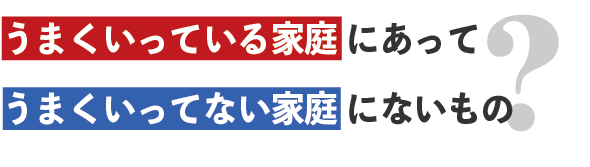
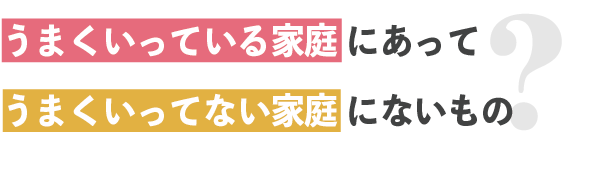
LP

diff --git a/product/案件/育脳子育てカウンセラー/lp/lp02/index.html b/product/案件/育脳子育てカウンセラー/lp/lp02/index.html
@@ -5,7 +5,7 @@
     <meta http-equiv="Content-Type" content="text/html; charset=UTF-8">
     <meta name="viewport" content="width=device-width, initial-scale=1.0">
 
-    <!-- LP_ASSET_VERSION: 20260714 -->
+    <!-- LP_ASSET_VERSION: 20260718j -->
     <meta http-equiv="Cache-Control" content="no-cache, no-store, must-revalidate">
     <meta http-equiv="Pragma" content="no-cache">
     <meta http-equiv="Expires" content="0">
@@ -110,11 +110,11 @@ h1,
 .firstview {
 	width: 100%;
 	max-width: none;
-	aspect-ratio: 1024 / 682;
+	aspect-ratio: 1024 / 683;
 	height: auto;
 	margin: 0 auto;
 	box-shadow: 0 0 5px rgba(0, 0, 0, 0.5);
-	background: url(assets/header-replacement.png?v=20260713b) center center / 100% auto no-repeat;
+	background: url(assets/header-replacement.png?v=20260718a) center center / 100% auto no-repeat;
 	text-indent: -9999px;
 	}
 
@@ -244,34 +244,50 @@ address {
 }
 
 .form-nudge {
-	margin: 0 auto 18px;
-	padding: 0 16px;
-	max-width: 96vw;
+	margin: 0 auto 10px;
+	padding: 0;
+	width: 100%;
+	max-width: 100%;
+	box-sizing: border-box;
 	color: var(--brand-text);
-	font-size: 1.55em;
+	font-size: 1.25em;
 	font-weight: bold;
-	line-height: 1.6;
+	line-height: 1.4;
 	text-align: center;
-	letter-spacing: 0.04em;
+	letter-spacing: 0.01em;
+	overflow: hidden;
 }
 
 .form-nudge span {
-	display: inline;
-	padding-bottom: 0.15em;
+	display: inline-block;
+	max-width: 100%;
+	box-sizing: border-box;
+	white-space: nowrap;
+	padding-bottom: 0.12em;
 	border-bottom: 2px solid rgba(196, 112, 126, 0.55);
 	color: #9b4d5c;
 }
 
 .form-nudge-date {
 	margin: 0 auto 22px;
-	padding: 0 16px;
-	max-width: 96vw;
+	padding: 0;
+	width: 100%;
+	max-width: 100%;
+	box-sizing: border-box;
 	color: #9b4d5c;
-	font-size: 1.45em;
+	font-size: 1.25em;
 	font-weight: bold;
-	line-height: 1.5;
+	line-height: 1.4;
 	text-align: center;
-	letter-spacing: 0.06em;
+	letter-spacing: 0.01em;
+}
+
+@media screen and (max-width: 599px) {
+	.form-nudge,
+	.form-nudge-date {
+		font-size: 16px;
+		letter-spacing: 0;
+	}
 }
 
 
@@ -455,6 +471,23 @@ button[type=submit] img:hover,
 	max-width: 96vw;
 	height: auto;
 	margin: 0 auto;
+}
+
+.who-feelings {
+	padding: 2.5em 0;
+	width: 100%;
+	background: #ffffff;
+}
+.wrap_who_feelings {
+	margin: 0 auto;
+	max-width: 1000px;
+}
+.img_who_feelings {
+	display: block;
+	margin: 0 auto;
+	width: 900px;
+	max-width: 96vw;
+	height: auto;
 }
 
 
@@ -699,6 +732,15 @@ button[type=submit] img:hover,
 	letter-spacing: 0.03em;
 }
 
+@media screen and (max-width: 599px) {
+	.cycle-bridge {
+		font-size: 1.05em;
+		line-height: 1.75;
+		letter-spacing: 0.02em;
+		padding: 0 4vw;
+	}
+}
+
 .img_irritation_cycle {
 	margin-top: 0.4em;
 }
@@ -790,6 +832,10 @@ button[type=submit] img:hover,
 	box-shadow: 0 0 5px rgba(0, 0, 0, 0.5);
 }
 
+.tokucho02-below-form {
+	padding: 0;
+	margin: 0;
+}
 .tokucho02 {
 	padding: 0;
 	margin: 0;
@@ -1178,7 +1224,7 @@ button[type=submit] img:hover,
 
 	h1,.firstview {
 		max-width: none;
-		aspect-ratio: 1024 / 682;
+		aspect-ratio: 1024 / 683;
 		height: auto;
 	}
 	h1.tbonly {display: block;}
@@ -1806,6 +1852,24 @@ h3 {margin-bottom: 0;}
     font-size: 0.85em;
 }
 }
+@media screen and (max-width: 599px) {
+	.fn-el-form input[type=email],
+	.deco,
+	.myasp-form-wrap .form_input_input.deco {
+		height: 52px !important;
+		min-height: 52px !important;
+		padding: 8px 10px !important;
+		border-width: 3px !important;
+		font-size: 1em !important;
+	}
+	.myasp-form-wrap .form_input_input.deco::placeholder {
+		font-size: 0.95em;
+	}
+	.myasp-form-wrap .form_input_submit {
+		margin-top: 14px;
+		padding: 0.4em 0.25em !important;
+	}
+}
     </style>
 
 </head>
@@ -1818,7 +1882,7 @@ h3 {margin-bottom: 0;}
 
 <div id="body">
     <div id="main" v-bind:class="[pagePcWidth, borderType, pageBackgroundImageClasses]" v-bind:style="pageBackgroundStyles">
-        <elements-component v-bind:data='{"page":{"background_color":null,"background_image_src":null,"background_image_style":null},"elements":[{"id":754635255,"is_popup":0,"type":"section","padding_bottom_sp":0,"padding_side_sp":0,"device":"only-sp","sid":"","children":[{"id":754635256,"is_popup":0,"type":"row","padding_bottom_sp":0,"sid":"","children":[{"id":754635257,"is_popup":0,"type":"col","sid":"","children":[{"id":754635258,"is_popup":0,"type":"image","img_src":"assets/header-mobile-replacement.png?v=20260713","align":"center","target":"same","sid":"","children":[]}]}]}]},{"id":754635259,"is_popup":0,"type":"section","device":"only-pc","class":"firstview","sid":"","children":[{"id":754635260,"is_popup":0,"type":"row","sid":"","children":[{"id":754635261,"is_popup":0,"type":"col","sid":"","children":[]}]}]},{"id":754635267,"is_popup":0,"type":"section","class":"form","sid":"","children":[{"id":754635268,"is_popup":0,"type":"row","class":"submit","sid":"","children":[{"id":754635269,"is_popup":0,"type":"col","sid":"","children":[{"id":754635270,"is_popup":0,"type":"html","text":"<p class=\"form-nudge\"><span>ママをサポートするカウンセラーへの道</span></p><p class=\"form-nudge-date\">↓7月27日(月)21:30スタート↓</p><div id=\"form\" class=\"myasp-form-wrap\"><div class=\"content_form\"><form action=\"https://my183p.com/p/r/iak8HPwC\" enctype=\"multipart/form-data\" id=\"UserItemForm\" class=\"myForm\" method=\"post\" accept-charset=\"utf-8\" data-myasp-item-id=\"iak8HPwC\" data-myasp-form-id=\"iak8HPwC\" data-myasp-page-key=\"form_page_html\" data-myasp-form-asset-version=\"7376e12c588b\"><input type=\"hidden\" name=\"_method\" value=\"POST\"><div class=\"input text input_unit required myasp-mail-row\" data-form-key=\"Usermail\"><input name=\"data[User][mail]\" id=\"Usermail\" value=\"\" class=\"form_input_input deco\" type=\"text\" placeholder=\"メールアドレスを入力してください\"></div><div class=\"submit form_input_submit\"><span class=\"btn_utg myasp-btn-shell\"><input type=\"image\" src=\"assets/button-replacement.png?v=20260607\" alt=\"無料で今すぐ5日間チャレンジプログラムに参加する\" class=\"myasp-btn-image\"></span></div><input type=\"hidden\" id=\"server_url_UserItemForm\" value=\"https://my183p.com/\"><!-- ▼リファラ --><input type=\"hidden\" name=\"data[User][referer_form_url]\" value=\"\" class=\"UserRefererFormUrl\"/><input type=\"hidden\" name=\"data[User][referer_url]\" value=\"\" class=\"UserRefererUrl\"/><script type=\"text/javascript\">//<!--\n    if (document.referrer.length !=0 ){\n        if (document.getElementsByClassName(\"UserRefererUrl\"))\n        {\n        var user_referer_url = document.getElementsByClassName(\"UserRefererUrl\");\n        for (var i = 0; i < user_referer_url.length; i++)\n        {\n            user_referer_url[i].value = document.referrer;\n        }\n        }\n        else if (document.getElementById(\"UserRefererUrl\"))\n        {\n            document.getElementById(\"UserRefererUrl\").value = document.referrer;\n        }\n    }\n\n\n    if (document.getElementsByClassName(\"UserRefererFormUrl\"))\n    {\n        var user_referer_form_url = document.getElementsByClassName(\"UserRefererFormUrl\");\n        for (var i = 0; i < user_referer_form_url.length; i++)\n        {\n            user_referer_form_url[i].value = location.href;\n        }\n    }\n    else if (document.getElementById(\"UserRefererFormUrl\"))\n    {\n        document.getElementById(\"UserRefererFormUrl\").value = location.href;\n    }\n//-->\n    </script><!-- ▲リファラ --></form></div></div>","sid":"","children":[]},{"id":754635272,"is_popup":0,"type":"text","text":"<p>Gmailなどのフリーメールアドレスでのご登録をお願いいたします。メールが確認できない場合は、迷惑フォルダもご確認ください。@icloud.com、outlook.jp、hotmail.com、mac.com、msn.comは届かない場合があります。</p>","class":"optin","sid":"","children":[]}]}]}]},{"id":754635273,"is_popup":0,"type":"section","padding_side_sp":0,"sid":"","children":[{"id":754635274,"is_popup":0,"type":"row","sid":"","children":[{"id":754635275,"is_popup":0,"type":"col","sid":"","children":[{"id":754635276,"is_popup":0,"type":"html","text":"<section class=\"bonus\">\n\n\t\t<h2><img src=\"https://utagesystem.s3.ap-northeast-1.amazonaws.com/g5kxXfM1ukUE/SWfPdfc9Z1zQisx9Q2U8Rd9CfUaVrKC7iygs2E8x.png\" alt=\"プログラム参加特典\"></h2>\n\n\t\t<div class=\"wrap_bonus\">\n\t\t\n\n\t\t\t<div class=\"con_bonus\">\n\n\t\t\t\t<img src=\"https://utagesystem.s3.ap-northeast-1.amazonaws.com/g5kxXfM1ukUE/WdLb0jPpd4E1440Bk1xNBwJ5tEzAdCxXSrGkriQb.png\" alt=\"今すぐ使える ”予想外”で子どものシナプスを刺激する 「1秒育脳ぷち」\">\n\n\t\t\t</div><!--/con_bonus-->\n\n\n\t\t</div><!--/wrap_bonus-->\n\t\t\n\t</section><!--/bonus-->\n\n\n<section class=\"who\">\n\n\t\t<h2><img src=\"https://utagesystem.s3.ap-northeast-1.amazonaws.com/g5kxXfM1ukUE/xs4PxQd9BBP8vclRk234tbWC9zDh6lDK16GwSy47.png\" alt=\"「育脳子育てカウンセラー」はこんな方におすすめです\"></h2>\n\n\t\t<div class=\"wrap_who\">\n\n\t\t\t<div class=\"con_who\">\n\t\t\t\t<img class=\"img_who_checklist\" src=\"assets/who-checklist-replacement.png?v=20260714\" alt=\"一生続けられる仕事がしたい。そう思っているのに…\">\n\t\t\t</div><!--/con_who-->\n\n\t\t</div><!--/wrap_who-->\n\n\t</section><!--/who-->\n\t<section class=\"insight-story\">\n\t\t<div class=\"wrap_insight_story\">\n\t\t\t<img class=\"img_insight_story\" src=\"assets/insight-story-replacement.png?v=20260714\" alt=\"実はわたしは、5000組以上の親子をサポートする中である共通点に気づきました。\">\n\t\t</div>\n\t</section><!--/insight-story-->\n\t\n\t<section class=\"contrast-question\">\n\t\t<div class=\"wrap_contrast_question\">\n\t\t\t<img class=\"img_contrast_question\" src=\"assets/contrast-question-replacement.png?v=20260714\" alt=\"うまくいく家庭にあって、うまくいってない家庭にないもの\">\n\t\t\t<p class=\"cycle-title cycle-title-happy\">うまくいく家庭の「ハッピーサイクル」</p>\n\t\t\t<img class=\"img_irritation_cycle\" src=\"assets/happy-cycle-replacement.png?v=20260714\" alt=\"ハッピーサイクル\">\n\t\t\t<p class=\"cycle-title cycle-title-irritation\">うまくいかない家庭の「イライラサイクル」</p>\n\t\t\t<img class=\"img_irritation_cycle\" src=\"assets/irritation-cycle-02.png?v=20260714\" alt=\"イライラサイクル\">\n\t\t\t<p class=\"cycle-bridge\">このように、ママが不安や焦りを抱えていると、<br>負のループに入りやすくなります。<br>親子の関係がすれ違ったり、<br>子どもが挑戦しにくくなったりしてしまいます。</p>\n\n\t\t</div>\n\t</section><!--/contrast-question-->\n<section class=\"conclusion-story\">\n\t\t<div class=\"wrap_conclusion_story\">\n\t\t\t<img class=\"img_conclusion_story\" src=\"assets/conclusion-text-replacement.png?v=20260714\" alt=\"そこで私たちは、ある結論にたどり着きます。子どもを支える前に、ママを支える人が必要だ。\">\n\t\t</div>\n\t</section><!--/conclusion-story-->\n\t<section class=\"workstyle-examples\">\n\t\t<div class=\"wrap_workstyle_examples\">\n\t\t\t<img class=\"img_workstyle_examples\" src=\"assets/workstyle-examples-replacement.png?v=20260714\" alt=\"例えばこんな働き方があります\">\n\t\t</div>\n\t</section><!--/workstyle-examples-->\n\n\n\n\n\n\t\t\n\t<section class=\"tokucho\">\n\n\t\t<div class=\"wrap_tokucho\">\n\t\t\n\t\t\t<picture>\n\t\t\t\t<source srcset=\"assets/tokucho-workstyle-replacement.png?v=20260714\" media=\"(max-width: 599px)\">\n\t\t\t\t<img class=\"img_tokucho\" src=\"assets/tokucho-workstyle-replacement.png?v=20260714\">\n\t\t\t</picture>\n\n\t\t</div><!--/wrap_tokucho-->\n\t\t\n\t</section><!--/tokucho-->\n\n\n\t\n\n\t<section class=\"merit\">\n\n\t\t<h2><img src=\"assets/merit-heading-replacement.png?v=20260607\" alt=\"５日間で何が学べるの？ \"></h2>\n\n\t\t<div class=\"wrap_merit\">\n\t\t\n\t\t\t<ul class=\"con_merit\">\n\t\t\t\t<li>子どもが好きという想いを仕事にする考え方</li>\n\t\t\t\t<li>ママを支える育脳メソッドの全体像</li>\n\t\t\t\t<li>育脳子育てカウンセラー®の具体的な活動内容</li>\n\t\t\t\t<li>未経験から始めるためのステップ</li>\n\t\t\t\t<li>あなたに合った働き方の見つけ方</li>\n\t\t\t\t<li>親子の未来を育てながら選ばれる仕事の作り方</li>\n\n\t\t\t</ul><!--/con_merit--></div><!--/wrap_merit-->\n\t\t\n\t</section><!--/merit-->\n\t<section class=\"workstyle-fun\">\n\t\t<img class=\"img_workstyle_fun\" src=\"assets/workstyle-fun-banner.png?v=20260714\" alt=\"ママを笑顔にする働きかた、ちょっと楽しそうじゃない？\">\n\t</section><!--/workstyle-fun-->\n","sid":"","children":[]}]}]}]},{"id":754635337,"is_popup":0,"type":"section","class":"tokucho02-above-form","sid":"","children":[{"id":754635338,"is_popup":0,"type":"row","sid":"","children":[{"id":754635339,"is_popup":0,"type":"col","sid":"","children":[{"id":754635340,"is_popup":0,"type":"html","text":"<section id=\"tokucho02\" class=\"tokucho02\">\n\n\t\t<div class=\"wrap_tokucho02\">\n\n\t\t\t<picture>\n\t\t\t\t<source srcset=\"assets/tokucho02-mobile-replacement.png?v=20260714\" media=\"(max-width: 599px)\">\n\t\t\t\t<img class=\"img_tokucho02\" src=\"assets/tokucho02-replacement.png?v=20260714\" alt=\"育脳子育てカウンセラー®の始め方\">\n\t\t\t</picture>\n\n\t\t</div><!--/wrap_tokucho02-->\n\n\t</section><!--/tokucho02-->","sid":"","children":[]}]}]}]},{"id":754635277,"is_popup":0,"type":"section","class":"form","sid":"","children":[{"id":754635278,"is_popup":0,"type":"row","class":"submit","sid":"","children":[{"id":754635279,"is_popup":0,"type":"col","sid":"","children":[{"id":754635280,"is_popup":0,"type":"html","text":"<p class=\"form-nudge\"><span>ママをサポートするカウンセラーへの道</span></p><p class=\"form-nudge-date\">↓7月27日(月)21:30スタート↓</p><div id=\"form-bottom\" class=\"myasp-form-wrap\"><div class=\"content_form\"><form action=\"https://my183p.com/p/r/iak8HPwC\" enctype=\"multipart/form-data\" id=\"UserItemForm2\" class=\"myForm\" method=\"post\" accept-charset=\"utf-8\" data-myasp-item-id=\"iak8HPwC\" data-myasp-form-id=\"iak8HPwC\" data-myasp-page-key=\"form_page_html\" data-myasp-form-asset-version=\"7376e12c588b\"><input type=\"hidden\" name=\"_method\" value=\"POST\"><div class=\"input text input_unit required myasp-mail-row\" data-form-key=\"Usermail\"><input name=\"data[User][mail]\" id=\"Usermail2\" value=\"\" class=\"form_input_input deco\" type=\"text\" placeholder=\"メールアドレスを入力してください\"></div><div class=\"submit form_input_submit\"><span class=\"btn_utg myasp-btn-shell\"><input type=\"image\" src=\"assets/button-replacement.png?v=20260607\" alt=\"無料で今すぐ5日間チャレンジプログラムに参加する\" class=\"myasp-btn-image\"></span></div><input type=\"hidden\" id=\"server_url_UserItemForm2\" value=\"https://my183p.com/\"><!-- ▼リファラ --><input type=\"hidden\" name=\"data[User][referer_form_url]\" value=\"\" class=\"UserRefererFormUrl\"/><input type=\"hidden\" name=\"data[User][referer_url]\" value=\"\" class=\"UserRefererUrl\"/><script type=\"text/javascript\">//<!--\n    if (document.referrer.length !=0 ){\n        if (document.getElementsByClassName(\"UserRefererUrl\"))\n        {\n        var user_referer_url = document.getElementsByClassName(\"UserRefererUrl\");\n        for (var i = 0; i < user_referer_url.length; i++)\n        {\n            user_referer_url[i].value = document.referrer;\n        }\n        }\n        else if (document.getElementById(\"UserRefererUrl\"))\n        {\n            document.getElementById(\"UserRefererUrl\").value = document.referrer;\n        }\n    }\n\n\n    if (document.getElementsByClassName(\"UserRefererFormUrl\"))\n    {\n        var user_referer_form_url = document.getElementsByClassName(\"UserRefererFormUrl\");\n        for (var i = 0; i < user_referer_form_url.length; i++)\n        {\n            user_referer_form_url[i].value = location.href;\n        }\n    }\n    else if (document.getElementById(\"UserRefererFormUrl\"))\n    {\n        document.getElementById(\"UserRefererFormUrl\").value = location.href;\n    }\n//-->\n    </script><!-- ▲リファラ --></form></div></div>","sid":"","children":[]},{"id":754635281,"is_popup":0,"type":"text","text":"<p>Gmailなどのフリーメールアドレスでのご登録をお願いいたします。メールが確認できない場合は、迷惑フォルダもご確認ください。@icloud.com、outlook.jp、hotmail.com、mac.com、msn.comは届かない場合があります。</p>","class":"optin","sid":"","children":[]}]}]}]},{"id":754635325,"is_popup":0,"type":"section","sid":"","children":[{"id":754635326,"is_popup":0,"type":"row","sid":"","children":[{"id":754635327,"is_popup":0,"type":"col","sid":"","children":[{"id":754635328,"is_popup":0,"type":"html","text":"<div class=\"profile\">\n\t\t\t<h2><img src=\"https://utagesystem.s3.ap-northeast-1.amazonaws.com/g5kxXfM1ukUE/f8qoOenCimcPo5xTOmAGJpNZt6yGKnnaaPh8ux0I.png\" alt=\"講師紹介\"></h2>\n\t\t\t\n\t\t\t<div class=\"con_profile\">\n\t\t\t\t<div class=\"shd_profile\">\n\t\t\t\t\t<picture>\n\t\t\t\t\t\t<source srcset=\"https://utagesystem.s3.ap-northeast-1.amazonaws.com/g5kxXfM1ukUE/IRZdUzYIFDPmhhSWgDZT4NMjxL5KNq7nam1GNsdj.png\" media=\"(max-width: 768px)\">\n\t\t\t\t\t\t<img class=\"tt_shdprofile\" src=\"https://utagesystem.s3.ap-northeast-1.amazonaws.com/g5kxXfM1ukUE/gdZe5hp0Q0dcBDhO5JMk6Y29eAghQGKnOTh5LJz4.png\">\n\t\t\t\t\t</picture>\n\t\t\t\t\t<img class=\"pic_profile\" src=\"assets/profile-photo-replacement.png?v=20260607\">\n\t\t\t\t</div><!-- /shd_profile -->\n\t\t\t\t\n\t\t\t\t<p>私も、2男1女の母です。<br>\n<br>\n幼いころから特別な英才教育をしてきたわけではありません。<br>\nごく普通の家庭で、ただただ愛情をたっぷり注いで子育てをしてきました。<br>\n<br>\nその結果、<br>\n<br>\n医者になった長男<br>\n特待生を経て幼稚園教諭になった長女<br>\n国立大学を卒業し、独立行政法人の団体職員として歩んでいる次男<br>\n<br>\n3人とも、自分のやりたいことを見つけて、<br>\n自分で選んだ道を、しっかりと歩んでいます。<br>\n<br>\nそんな子どもたちの成長を見守りながら、<br>\n私はずっと思っていました。<br>\n<br>\n<strong>「おかえり」と言える毎日を大切にしながら、<br>\n誰かの力になれる仕事がしたい。</strong><br>\n<br>\nその想いから、17年前に起業しました。<br>\n<br>\n子育て中は、本当に毎日があっという間です。<br>\n母として、妻として、家族のために動いているうちに、<br>\n気づけば自分のことはいつも後回し。<br>\n<br>\nでも私は思うのです。<br>\n<br>\n<strong>ママだって、自分のことを考えていい。<br>\nママだって、自分の人生を生きていい。</strong><br>\n<br>\n限られた時間の中でも、<br>\nやりたいことをやっていい。<br>\n楽しんでいい。<br>\n自分の「好き」や「得意」を活かして、<br>\n子育てをしながら働くことだって、できる。<br>\n<br>\nそんな生き方が当たり前になったら、<br>\nきっと今よりもっと、子育てしやすくて、<br>\n助け合いがあって、あたたかい社会になっていく。<br>\n<br>\n<strong>私は、そんな想いで<br>\n育脳子育てカウンセラー®として活動しています。</strong></p>\n\t\t\t</div><!-- /con_profile -->\n\t\t</div><!-- /profile -->","sid":"","children":[]}]}]}]},{"id":754635329,"is_popup":0,"type":"section","class":"footer","sid":"","children":[{"id":754635330,"is_popup":0,"type":"row","sid":"","children":[{"id":754635331,"is_popup":0,"type":"col","sid":"","children":[{"id":754635332,"is_popup":0,"type":"footer","color":"#ffffff","privacy":"https://eqno.mamaaka.com/p/privacy","asct":"https://eqno.mamaaka.com/p/law","copyright":"育脳子育てカウンセラー 運営事務局","background_color":"#ffffff","sid":"","children":[]}]}]}]},{"id":754635333,"is_popup":0,"type":"section","sid":"","children":[{"id":754635334,"is_popup":0,"type":"row","sid":"","children":[{"id":754635335,"is_popup":0,"type":"col","sid":"","children":[{"id":754635336,"is_popup":0,"type":"html","text":"<div class=\"flbtn\"><a href=\"#tokucho02\">無料で今すぐ5日間チャレンジプログラムに参加する</a></div><!--/flbtn-->","sid":"","children":[]}]}]}]}],"popupelements":[],"products":[],"actions":[],"forms":[],"funnel":{"id":125951,"id_str":"tIuqBmSeuvw6","funnel_group_id":0,"memo":null,"share_id":"SIjKFcmlg632","is_test_mode":0,"is_archived":0,"is_deleted":0,"status":"published","share_type":"email","from_funnel_id":null,"period_to":null,"url_closed":null,"webinar_format":"web","webinar_type":"day","webinar_registration_type":"default","webinar_period_minute":null,"webinar_day_after":null,"webinar_days":null,"webinar_count_per_day":null,"webinar_from_hour1":null,"webinar_from_min1":null,"webinar_to_hour1":null,"webinar_to_min1":null,"webinar_from_hour2":null,"webinar_from_min2":null,"webinar_to_hour2":null,"webinar_to_min2":null,"webinar_length_hour":null,"webinar_length_minute":null,"webinar_replay_days":null,"webinar_chat_type":"none","webinar_chat_approval_type":"auto","webinar_default_schedule_type":"none","zoom_webinar_project_id":null,"js_head":null,"js_body_top":null,"js_body":null,"order":0,"user_id_str":"g5kxXfM1ukUE","share_status":null,"today":"2026-06-03T12:09:54.798179Z"},"ispreview":false,"pageid":"dSMe05KIyIEV","pcwidth":100,"bordertype":"shadow","swipetype":"none","userdata":[],"webinarschedules":[],"uselazyload":true}'></elements-component>
+        <elements-component v-bind:data='{"page":{"background_color":null,"background_image_src":null,"background_image_style":null},"elements":[{"id":754635255,"is_popup":0,"type":"section","padding_bottom_sp":0,"padding_side_sp":0,"device":"only-sp","sid":"","children":[{"id":754635256,"is_popup":0,"type":"row","padding_bottom_sp":0,"sid":"","children":[{"id":754635257,"is_popup":0,"type":"col","sid":"","children":[{"id":754635258,"is_popup":0,"type":"image","img_src":"assets/header-mobile-replacement.png?v=20260718b","align":"center","target":"same","sid":"","children":[]}]}]}]},{"id":754635259,"is_popup":0,"type":"section","device":"only-pc","class":"firstview","sid":"","children":[{"id":754635260,"is_popup":0,"type":"row","sid":"","children":[{"id":754635261,"is_popup":0,"type":"col","sid":"","children":[]}]}]},{"id":754635267,"is_popup":0,"type":"section","class":"form","sid":"","children":[{"id":754635268,"is_popup":0,"type":"row","class":"submit","sid":"","children":[{"id":754635269,"is_popup":0,"type":"col","sid":"","children":[{"id":754635270,"is_popup":0,"type":"html","text":"<p class=\"form-nudge\"><span>子育て経験を収入に変える秘密</span></p><p class=\"form-nudge-date\">↓7月27日(月)21:30スタート↓</p><div id=\"form\" class=\"myasp-form-wrap\"><div class=\"content_form\"><form action=\"https://my183p.com/p/r/iak8HPwC\" enctype=\"multipart/form-data\" id=\"UserItemForm\" class=\"myForm\" method=\"post\" accept-charset=\"utf-8\" data-myasp-item-id=\"iak8HPwC\" data-myasp-form-id=\"iak8HPwC\" data-myasp-page-key=\"form_page_html\" data-myasp-form-asset-version=\"7376e12c588b\"><input type=\"hidden\" name=\"_method\" value=\"POST\"><div class=\"input text input_unit required myasp-mail-row\" data-form-key=\"Usermail\"><input name=\"data[User][mail]\" id=\"Usermail\" value=\"\" class=\"form_input_input deco\" type=\"text\" placeholder=\"メールアドレスを入力してください\"></div><div class=\"submit form_input_submit\"><span class=\"btn_utg myasp-btn-shell\"><input type=\"image\" src=\"assets/button-replacement.png?v=20260607\" alt=\"無料で今すぐ5日間チャレンジプログラムに参加する\" class=\"myasp-btn-image\"></span></div><input type=\"hidden\" id=\"server_url_UserItemForm\" value=\"https://my183p.com/\"><!-- ▼リファラ --><input type=\"hidden\" name=\"data[User][referer_form_url]\" value=\"\" class=\"UserRefererFormUrl\"/><input type=\"hidden\" name=\"data[User][referer_url]\" value=\"\" class=\"UserRefererUrl\"/><script type=\"text/javascript\">//<!--\n    if (document.referrer.length !=0 ){\n        if (document.getElementsByClassName(\"UserRefererUrl\"))\n        {\n        var user_referer_url = document.getElementsByClassName(\"UserRefererUrl\");\n        for (var i = 0; i < user_referer_url.length; i++)\n        {\n            user_referer_url[i].value = document.referrer;\n        }\n        }\n        else if (document.getElementById(\"UserRefererUrl\"))\n        {\n            document.getElementById(\"UserRefererUrl\").value = document.referrer;\n        }\n    }\n\n\n    if (document.getElementsByClassName(\"UserRefererFormUrl\"))\n    {\n        var user_referer_form_url = document.getElementsByClassName(\"UserRefererFormUrl\");\n        for (var i = 0; i < user_referer_form_url.length; i++)\n        {\n            user_referer_form_url[i].value = location.href;\n        }\n    }\n    else if (document.getElementById(\"UserRefererFormUrl\"))\n    {\n        document.getElementById(\"UserRefererFormUrl\").value = location.href;\n    }\n//-->\n    </script><!-- ▲リファラ --></form></div></div>","sid":"","children":[]},{"id":754635272,"is_popup":0,"type":"text","text":"<p>Gmailなどのフリーメールアドレスでのご登録をお願いいたします。メールが確認できない場合は、迷惑フォルダもご確認ください。@icloud.com、outlook.jp、hotmail.com、mac.com、msn.comは届かない場合があります。</p>","class":"optin","sid":"","children":[]}]}]}]},{"id":754635273,"is_popup":0,"type":"section","padding_side_sp":0,"sid":"","children":[{"id":754635274,"is_popup":0,"type":"row","sid":"","children":[{"id":754635275,"is_popup":0,"type":"col","sid":"","children":[{"id":754635276,"is_popup":0,"type":"html","text":"<section class=\"bonus\">\n\n\t\t<h2><img src=\"https://utagesystem.s3.ap-northeast-1.amazonaws.com/g5kxXfM1ukUE/SWfPdfc9Z1zQisx9Q2U8Rd9CfUaVrKC7iygs2E8x.png\" alt=\"プログラム参加特典\"></h2>\n\n\t\t<div class=\"wrap_bonus\">\n\t\t\n\n\t\t\t<div class=\"con_bonus\">\n\n\t\t\t\t<img src=\"https://utagesystem.s3.ap-northeast-1.amazonaws.com/g5kxXfM1ukUE/WdLb0jPpd4E1440Bk1xNBwJ5tEzAdCxXSrGkriQb.png\" alt=\"今すぐ使える ”予想外”で子どものシナプスを刺激する 「1秒育脳ぷち」\">\n\n\t\t\t</div><!--/con_bonus-->\n\n\n\t\t</div><!--/wrap_bonus-->\n\t\t\n\t</section><!--/bonus-->\n\n\n<section class=\"who\">\n\n\t\t<h2><img src=\"https://utagesystem.s3.ap-northeast-1.amazonaws.com/g5kxXfM1ukUE/xs4PxQd9BBP8vclRk234tbWC9zDh6lDK16GwSy47.png\" alt=\"「育脳子育てカウンセラー」はこんな方におすすめです\"></h2>\n\n\t\t<div class=\"wrap_who\">\n\n\t\t\t<div class=\"con_who\">\n\t\t\t\t<img class=\"img_who_checklist\" src=\"assets/who-checklist-replacement.png?v=20260718j\" alt=\"このまま、今の働き方を続けますか？\">\n\t\t\t</div><!--/con_who-->\n\n\t\t</div><!--/wrap_who-->\n\n\t</section><!--/who-->\n\t<section class=\"who-feelings\">\n\t\t<div class=\"wrap_who_feelings\">\n\t\t\t<img class=\"img_who_feelings\" src=\"assets/who-feelings-replacement.png?v=20260718f\" alt=\"こんな想いはありませんか？\">\n\t\t</div>\n\t</section><!--/who-feelings-->\n\t<section class=\"insight-story\">\n\t\t<div class=\"wrap_insight_story\">\n\t\t\t<img class=\"img_insight_story\" src=\"assets/insight-story-replacement.png?v=20260714i\" alt=\"実はわたしは、5000組以上の親子をサポートする中である共通点に気づきました。\">\n\t\t</div>\n\t</section><!--/insight-story-->\n\t\n\t<section class=\"contrast-question\">\n\t\t<div class=\"wrap_contrast_question\">\n\t\t\t<img class=\"img_contrast_question\" src=\"assets/contrast-question-replacement.png?v=20260714j\" alt=\"うまくいく家庭にあって、うまくいってない家庭にないもの\">\n\t\t\t<p class=\"cycle-title cycle-title-happy\">うまくいく家庭の<br class=\"sponly\">「ハッピーサイクル」</p>\n\t\t\t<img class=\"img_irritation_cycle\" src=\"assets/happy-cycle-replacement.png?v=20260714\" alt=\"ハッピーサイクル\">\n\t\t\t<p class=\"cycle-title cycle-title-irritation\">うまくいかない家庭の<br class=\"sponly\">「イライラサイクル」</p>\n\t\t\t<img class=\"img_irritation_cycle\" src=\"assets/irritation-cycle-02.png?v=20260714\" alt=\"イライラサイクル\">\n\t\t\t<p class=\"cycle-bridge\">このように、ママが不安や焦りを抱えていると、<br>負のループに入りやすくなります。<br>親子の関係がすれ違ったり、<br>子どもが挑戦しにくくなったりしてしまいます。</p>\n\n\t\t</div>\n\t</section><!--/contrast-question-->\n<section class=\"conclusion-story\">\n\t\t<div class=\"wrap_conclusion_story\">\n\t\t\t<img class=\"img_conclusion_story\" src=\"assets/conclusion-text-replacement.png?v=20260714k\" alt=\"そこで私たちは、ある結論にたどり着きます。子どもを支える前に、ママを支える人が必要だ。\">\n\t\t</div>\n\t</section><!--/conclusion-story-->\n\n\n\n\n\n\t\t\n\t<section class=\"tokucho\">\n\n\t\t<div class=\"wrap_tokucho\">\n\t\t\n\t\t\t<picture>\n\t\t\t\t<source srcset=\"assets/tokucho-workstyle-replacement.png?v=20260714\" media=\"(max-width: 599px)\">\n\t\t\t\t<img class=\"img_tokucho\" src=\"assets/tokucho-workstyle-replacement.png?v=20260714\">\n\t\t\t</picture>\n\n\t\t</div><!--/wrap_tokucho-->\n\t\t\n\t</section><!--/tokucho-->\n\n\n\t\n\n\t<section class=\"workstyle-examples\">\n\t\t<div class=\"wrap_workstyle_examples\">\n\t\t\t<img class=\"img_workstyle_examples\" src=\"assets/workstyle-examples-replacement.png?v=20260714\" alt=\"例えばこんな働き方があります\">\n\t\t</div>\n\t</section><!--/workstyle-examples-->\n\n<section class=\"merit\">\n\n\t\t<h2><img src=\"assets/merit-heading-replacement.png?v=20260607\" alt=\"５日間で何が学べるの？ \"></h2>\n\n\t\t<div class=\"wrap_merit\">\n\t\t\n\t\t\t<ul class=\"con_merit\">\n\t\t\t\t<li>子どもが好きという想いを仕事にする考え方</li>\n\t\t\t\t<li>ママを支える育脳メソッドの全体像</li>\n\t\t\t\t<li>育脳子育てカウンセラー®の具体的な活動内容</li>\n\t\t\t\t<li>未経験から始めるためのステップ</li>\n\t\t\t\t<li>あなたに合った働き方の見つけ方</li>\n\t\t\t\t<li>親子の未来を育てながら選ばれる仕事の作り方</li>\n\n\t\t\t</ul><!--/con_merit--></div><!--/wrap_merit-->\n\t\t\n\t</section><!--/merit-->\n","sid":"","children":[]}]}]}]},{"id":900000001,"is_popup":0,"type":"section","class":"tokucho02-below-form","sid":"","children":[{"id":900000002,"is_popup":0,"type":"row","sid":"","children":[{"id":900000003,"is_popup":0,"type":"col","sid":"","children":[{"id":900000004,"is_popup":0,"type":"html","text":"<section id=\"tokucho02\" class=\"tokucho02\">\n\n\t\t<div class=\"wrap_tokucho02\">\n\n\t\t\t<picture>\n\t\t\t\t<source srcset=\"assets/header-mobile-replacement.png?v=20260718b\" media=\"(max-width: 599px)\">\n\t\t\t\t<img class=\"img_tokucho02\" src=\"assets/header-replacement.png?v=20260718a\" alt=\"育脳子育てカウンセラー®の始め方\">\n\t\t\t</picture>\n\n\t\t</div><!--/wrap_tokucho02-->\n\n\t</section><!--/tokucho02-->","sid":"","children":[]}]}]}]},{"id":754635277,"is_popup":0,"type":"section","class":"form","sid":"","children":[{"id":754635278,"is_popup":0,"type":"row","class":"submit","sid":"","children":[{"id":754635279,"is_popup":0,"type":"col","sid":"","children":[{"id":754635280,"is_popup":0,"type":"html","text":"<p class=\"form-nudge\"><span>子育て経験を収入に変える秘密</span></p><p class=\"form-nudge-date\">↓7月27日(月)21:30スタート↓</p><div id=\"form-bottom\" class=\"myasp-form-wrap\"><div class=\"content_form\"><form action=\"https://my183p.com/p/r/iak8HPwC\" enctype=\"multipart/form-data\" id=\"UserItemForm2\" class=\"myForm\" method=\"post\" accept-charset=\"utf-8\" data-myasp-item-id=\"iak8HPwC\" data-myasp-form-id=\"iak8HPwC\" data-myasp-page-key=\"form_page_html\" data-myasp-form-asset-version=\"7376e12c588b\"><input type=\"hidden\" name=\"_method\" value=\"POST\"><div class=\"input text input_unit required myasp-mail-row\" data-form-key=\"Usermail\"><input name=\"data[User][mail]\" id=\"Usermail2\" value=\"\" class=\"form_input_input deco\" type=\"text\" placeholder=\"メールアドレスを入力してください\"></div><div class=\"submit form_input_submit\"><span class=\"btn_utg myasp-btn-shell\"><input type=\"image\" src=\"assets/button-replacement.png?v=20260607\" alt=\"無料で今すぐ5日間チャレンジプログラムに参加する\" class=\"myasp-btn-image\"></span></div><input type=\"hidden\" id=\"server_url_UserItemForm2\" value=\"https://my183p.com/\"><!-- ▼リファラ --><input type=\"hidden\" name=\"data[User][referer_form_url]\" value=\"\" class=\"UserRefererFormUrl\"/><input type=\"hidden\" name=\"data[User][referer_url]\" value=\"\" class=\"UserRefererUrl\"/><script type=\"text/javascript\">//<!--\n    if (document.referrer.length !=0 ){\n        if (document.getElementsByClassName(\"UserRefererUrl\"))\n        {\n        var user_referer_url = document.getElementsByClassName(\"UserRefererUrl\");\n        for (var i = 0; i < user_referer_url.length; i++)\n        {\n            user_referer_url[i].value = document.referrer;\n        }\n        }\n        else if (document.getElementById(\"UserRefererUrl\"))\n        {\n            document.getElementById(\"UserRefererUrl\").value = document.referrer;\n        }\n    }\n\n\n    if (document.getElementsByClassName(\"UserRefererFormUrl\"))\n    {\n        var user_referer_form_url = document.getElementsByClassName(\"UserRefererFormUrl\");\n        for (var i = 0; i < user_referer_form_url.length; i++)\n        {\n            user_referer_form_url[i].value = location.href;\n        }\n    }\n    else if (document.getElementById(\"UserRefererFormUrl\"))\n    {\n        document.getElementById(\"UserRefererFormUrl\").value = location.href;\n    }\n//-->\n    </script><!-- ▲リファラ --></form></div></div>","sid":"","children":[]},{"id":754635281,"is_popup":0,"type":"text","text":"<p>Gmailなどのフリーメールアドレスでのご登録をお願いいたします。メールが確認できない場合は、迷惑フォルダもご確認ください。@icloud.com、outlook.jp、hotmail.com、mac.com、msn.comは届かない場合があります。</p>","class":"optin","sid":"","children":[]}]}]}]},{"id":754635325,"is_popup":0,"type":"section","sid":"","children":[{"id":754635326,"is_popup":0,"type":"row","sid":"","children":[{"id":754635327,"is_popup":0,"type":"col","sid":"","children":[{"id":754635328,"is_popup":0,"type":"html","text":"<div class=\"profile\">\n\t\t\t<h2><img src=\"https://utagesystem.s3.ap-northeast-1.amazonaws.com/g5kxXfM1ukUE/f8qoOenCimcPo5xTOmAGJpNZt6yGKnnaaPh8ux0I.png\" alt=\"講師紹介\"></h2>\n\t\t\t\n\t\t\t<div class=\"con_profile\">\n\t\t\t\t<div class=\"shd_profile\">\n\t\t\t\t\t<picture>\n\t\t\t\t\t\t<source srcset=\"https://utagesystem.s3.ap-northeast-1.amazonaws.com/g5kxXfM1ukUE/IRZdUzYIFDPmhhSWgDZT4NMjxL5KNq7nam1GNsdj.png\" media=\"(max-width: 768px)\">\n\t\t\t\t\t\t<img class=\"tt_shdprofile\" src=\"https://utagesystem.s3.ap-northeast-1.amazonaws.com/g5kxXfM1ukUE/gdZe5hp0Q0dcBDhO5JMk6Y29eAghQGKnOTh5LJz4.png\">\n\t\t\t\t\t</picture>\n\t\t\t\t\t<img class=\"pic_profile\" src=\"assets/profile-photo-replacement.png?v=20260607\">\n\t\t\t\t</div><!-- /shd_profile -->\n\t\t\t\t\n\t\t\t\t<p>私も、2男1女の母です。<br>\n<br>\n幼いころから特別な英才教育をしてきたわけではありません。<br>\nごく普通の家庭で、ただただ愛情をたっぷり注いで子育てをしてきました。<br>\n<br>\nその結果、<br>\n<br>\n医者になった長男<br>\n特待生を経て幼稚園教諭になった長女<br>\n国立大学を卒業し、独立行政法人の団体職員として歩んでいる次男<br>\n<br>\n3人とも、自分のやりたいことを見つけて、<br>\n自分で選んだ道を、しっかりと歩んでいます。<br>\n<br>\nそんな子どもたちの成長を見守りながら、<br>\n私はずっと思っていました。<br>\n<br>\n<strong>「おかえり」と言える毎日を大切にしながら、<br>\n誰かの力になれる仕事がしたい。</strong><br>\n<br>\nその想いから、17年前に起業しました。<br>\n<br>\n子育て中は、本当に毎日があっという間です。<br>\n母として、妻として、家族のために動いているうちに、<br>\n気づけば自分のことはいつも後回し。<br>\n<br>\nでも私は思うのです。<br>\n<br>\n<strong>ママだって、自分のことを考えていい。<br>\nママだって、自分の人生を生きていい。</strong><br>\n<br>\n限られた時間の中でも、<br>\nやりたいことをやっていい。<br>\n楽しんでいい。<br>\n自分の「好き」や「得意」を活かして、<br>\n子育てをしながら働くことだって、できる。<br>\n<br>\nそんな生き方が当たり前になったら、<br>\nきっと今よりもっと、子育てしやすくて、<br>\n助け合いがあって、あたたかい社会になっていく。<br>\n<br>\n<strong>私は、そんな想いで<br>\n育脳子育てカウンセラー®として活動しています。</strong></p>\n\t\t\t</div><!-- /con_profile -->\n\t\t</div><!-- /profile -->","sid":"","children":[]}]}]}]},{"id":754635329,"is_popup":0,"type":"section","class":"footer","sid":"","children":[{"id":754635330,"is_popup":0,"type":"row","sid":"","children":[{"id":754635331,"is_popup":0,"type":"col","sid":"","children":[{"id":754635332,"is_popup":0,"type":"footer","color":"#ffffff","privacy":"https://eqno.mamaaka.com/p/privacy","asct":"https://eqno.mamaaka.com/p/law","copyright":"育脳子育てカウンセラー 運営事務局","background_color":"#ffffff","sid":"","children":[]}]}]}]},{"id":754635333,"is_popup":0,"type":"section","sid":"","children":[{"id":754635334,"is_popup":0,"type":"row","sid":"","children":[{"id":754635335,"is_popup":0,"type":"col","sid":"","children":[{"id":754635336,"is_popup":0,"type":"html","text":"<div class=\"flbtn\"><a href=\"#tokucho02\">無料で今すぐ5日間チャレンジプログラムに参加する</a></div><!--/flbtn-->","sid":"","children":[]}]}]}]}],"popupelements":[],"products":[],"actions":[],"forms":[],"funnel":{"id":125951,"id_str":"tIuqBmSeuvw6","funnel_group_id":0,"memo":null,"share_id":"SIjKFcmlg632","is_test_mode":0,"is_archived":0,"is_deleted":0,"status":"published","share_type":"email","from_funnel_id":null,"period_to":null,"url_closed":null,"webinar_format":"web","webinar_type":"day","webinar_registration_type":"default","webinar_period_minute":null,"webinar_day_after":null,"webinar_days":null,"webinar_count_per_day":null,"webinar_from_hour1":null,"webinar_from_min1":null,"webinar_to_hour1":null,"webinar_to_min1":null,"webinar_from_hour2":null,"webinar_from_min2":null,"webinar_to_hour2":null,"webinar_to_min2":null,"webinar_length_hour":null,"webinar_length_minute":null,"webinar_replay_days":null,"webinar_chat_type":"none","webinar_chat_approval_type":"auto","webinar_default_schedule_type":"none","zoom_webinar_project_id":null,"js_head":null,"js_body_top":null,"js_body":null,"order":0,"user_id_str":"g5kxXfM1ukUE","share_status":null,"today":"2026-06-03T12:09:54.798179Z"},"ispreview":false,"pageid":"dSMe05KIyIEV","pcwidth":100,"bordertype":"shadow","swipetype":"none","userdata":[],"webinarschedules":[],"uselazyload":true}'></elements-component>
     </div>
     <div>
         <div id="exit-popup-hover" class="fixed-top"
@@ -1848,6 +1912,38 @@ h3 {margin-bottom: 0;}
 
 <script>
 document.addEventListener('DOMContentLoaded', function () {
+	function fitFormNudge() {
+		if (window.innerWidth > 599) {
+			document.querySelectorAll('.form-nudge span').forEach(function (span) {
+				span.style.fontSize = '';
+			});
+			document.querySelectorAll('.form-nudge-date').forEach(function (el) {
+				el.style.fontSize = '';
+			});
+			return;
+		}
+		document.querySelectorAll('.form-nudge').forEach(function (el) {
+			var span = el.querySelector('span');
+			if (!span) {
+				return;
+			}
+			var maxWidth = el.clientWidth;
+			if (!maxWidth) {
+				return;
+			}
+			var size = Math.min(28, Math.floor(maxWidth / 15));
+			span.style.fontSize = size + 'px';
+			while (size > 11 && span.scrollWidth > maxWidth) {
+				size -= 0.5;
+				span.style.fontSize = size + 'px';
+			}
+			var dateEl = el.nextElementSibling;
+			if (dateEl && dateEl.classList.contains('form-nudge-date')) {
+				dateEl.style.fontSize = size + 'px';
+			}
+		});
+	}
+
 	function insertWhoCopy() {
 		var target = document.querySelector('.con_who');
 		if (!target || target.querySelector('.who-copy')) {
@@ -1901,14 +1997,18 @@ document.addEventListener('DOMContentLoaded', function () {
 	insertWhoCopySecondary();
 	insertWhoBridgeImage();
 	insertProfileLogo();
+	fitFormNudge();
 	window.setTimeout(insertWhoCopy, 300);
 	window.setTimeout(insertWhoCopySecondary, 300);
 	window.setTimeout(insertWhoBridgeImage, 300);
 	window.setTimeout(insertProfileLogo, 300);
+	window.setTimeout(fitFormNudge, 300);
 	window.setTimeout(insertWhoCopy, 1200);
 	window.setTimeout(insertWhoCopySecondary, 1200);
 	window.setTimeout(insertWhoBridgeImage, 1200);
 	window.setTimeout(insertProfileLogo, 1200);
+	window.setTimeout(fitFormNudge, 1200);
+	window.addEventListener('resize', fitFormNudge);
 });
 </script>
 
